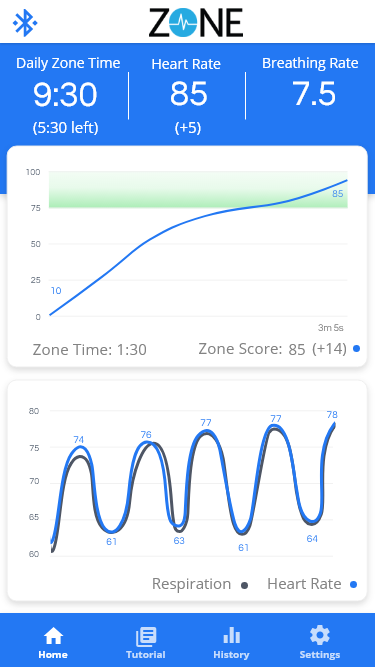
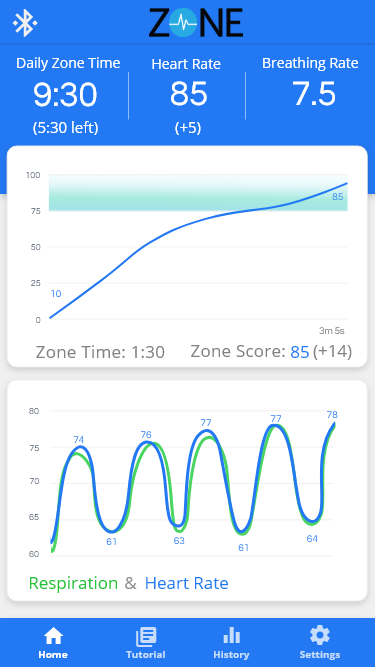
fixed grammar errors; new zome-screen screen

diff --git a/src/app/home/home.component.html b/src/app/home/home.component.html
@@ -39,9 +39,10 @@
   <main class='main-wrapper'>
     <div class='about' id='about-me'>
       <h1 class='main-font'>Hello World!</h1>
-      <p class='me'>I'm Alex Reyes, a software developer specializing in web and mobile applications with the best UX users can get. In addition, I have a business degree,
-          and I'm passionate about innovation and tech startups. I always try to keep my self busy by reading about tech and business or improving my code. Connect with me on LinkedIn or
-          send me a message and say hi!</p>
+      <p class='me'>I'm Alex Reyes, a software developer specializing in web and mobile applications with the best UX users can get.
+          In addition, I have a business degree, and I'm passionate about innovation and tech startups. I always try to keep my self 
+          busy by reading about tech and business or improving my code. Connect with me on LinkedIn or send me a message and say hi!
+      </p>
       <div class='contact-wrapper' id='contact'>
         <a class="resume btn btn-info"  [routerLink]="['/resume']" routerLinkActive="active"><i class="fas fa-file-pdf"></i> Resume</a>
         <!-- <object width="400" height="500" type="application/pdf" data="../assets/resume-site-sm.pdf">
@@ -84,14 +85,17 @@
           </div>
           <p class='footnote note'>App Mockups*</p>
           <h4 class='sub-header'>Description</h4>
-            <p>Vardas Solutions is biometrics startup located in San Diego's biotech hub with 4 patent-pending technologies. Their product, Zone,
-                is a wearable device that uses AI and 25 years on HRV biofeedback therapy to synchronize heart rate, respiration, and blood pressure through a guided breathing rate.
-                This suppresses the "stress responsive" making users more resilient to stress, anxiety, and depression.</p>
+            <p>Vardas Solutions is a biometrics startup located in San Diego with 5 patent-pending technologies. Their product, Zone,
+                is a wearable device that uses AI and 25 years on HRV biofeedback therapy to synchronize heart rate, respiration,
+                and blood pressure through a guided breathing rate. The device successfully suppresses the "stress responsive" making 
+                users more resilient to stress, anxiety, and depression.</p>
           <h4 class='sub-header'>Roles:</h4>
             <ul>
               <li>Design the application mockups and conduct user test interviews to get the best UX.</li>
-              <li>Support on software development planning, such as a timeline for the mobile app, web portal, admin site, database, and firmware and create the specifications document.</li>
-              <li>Support on building a team of engineers, such as interviewing engineers and meeting with engineering firms abroad to assess fitness and candidacy.</li>
+              <li>Support on software development planning, such as a timeline for the mobile app, web portal, admin site, database,
+                  and firmware and create the specifications document.</li>
+              <li>Support on building a team of engineers, such as interviewing engineers and meeting with engineering firms abroad to
+                  assess fitness and candidacy.</li>
             </ul>
             <div class="h5-section ">
                 <p class='sub-header-6'>Used:</p>
@@ -99,7 +103,7 @@
             </div>
             <div class="h5-section">
                 <p class='sub-header-6'>Source: </p>
-                <p class='content1'>Work in process. Will keep you update ;)</p>
+                <p class='content1'>Work in process. Will keep you updated ;)</p>
             </div>  
         </div>
         <div class='reboot sect' id='reboot'>
@@ -131,8 +135,9 @@
             </a>
           </div>
           <h4 class='sub-header'>Description</h4>
-          <p>Reboot is a non-profit organization that helps veterans transition into civilian life. Reboot is a tablet application created for veterans with the best user
-            experience that makes it effective for veterans to accomplish a set of the task before they leave the military. This includes:</p>
+          <p> Reboot is a non-profit organization that helps veterans transition into civilian life. Reboot is creating an application, 
+              designed for veterans, with the best user experience that makes it effective for veterans to accomplish a set of the tasks
+              before leaving the military. This includes:</p>
             <ul>
               <li>A wizard that guides veterans through the app.</li>
               <li>A timeline that details the task performed and notifications when users are being left behind.</li>
@@ -140,9 +145,10 @@
             </ul>
           <h4 class='sub-header'>Roles:</h4>
           <ul>
-            <li>Create personas and a storyboard on how veterans would interact with the app</li>
-            <li>Worked with 3 developers and 1 team lead following an agile methodology; used git for version control, created issues, pull-request, and performed code reviews.</li>
-            <li>Used JavaScript, Angular an Ionic to code a prototype application.</li> 
+            <li>Created personas and a storyboard on how veterans would interact with the app</li>
+            <li>Worked with 3 developers and 1 team lead following an agile methodology; used git for version control, created issues,
+                pull-request, and performed code reviews.</li>
+            <li>Used JavaScript, Angular and Ionic to code a prototype application.</li> 
             <li>Designed RESTful backend server allowing personal data to be stored persistently in an online database.</li>
           </ul>
           <div class="h5-section">
@@ -195,9 +201,10 @@
             </a>
           </div>
           <h4 class='sub-header'>Description</h4>
-          <p>Google provides awesome products and services that we all enjoy every day. One of them is Google Maps. This application was build using Google Map's API and given a twist.
-              The main purpose is to allow users to discover awesome places close by and look at the price range, open status, and ratings. Users can search using their geolocation or by using the search prediction,
-              and they can customize their search by the type of location. The best part is the ability to save the user's favorite places to a database.</p>
+          <p> Google provides awesome products and services that we all enjoy every day. One of them is Google Maps. This application was build 
+              using Google Map's API and given a twist. The main purpose is to allow users to discover awesome places close by and look at the
+              price range, open status, ratings, etc. Users can search using their geolocation or by using the search prediction, and they can
+              customize their search by the type of location. The best part is the ability to save the user's favorite places to a database.</p>
           <div class="h5-section">
               <p class='sub-header-6'>Used:</p>
               <p class=' content1'>JavaScript, HTML, CSS, Ionic, Geolocation, MongoDB, Express, Cordova, Google Map’s API </p>
@@ -236,8 +243,9 @@
             </a>
           </div>
           <h4 class='sub-header'>Description</h4>
-          <p>This web app allows users to search for the hottest stocks in the market. Enter a ticker symbol and let the magic begin. You can search by the hour, day, week, or month.
-              In addition, you can read the most relevant news in the left column. Finally, this app lets you save your favorite stocks in a database.</p>
+          <p> This web app allows users to search for the hottest stocks in the market. Enter a ticker symbol and let the magic begin. 
+              You can search by the hour, day, week, or month. In addition, you can read the most relevant news in the left column. 
+              Finally, this app lets you save your favorite stocks in a database.</p>
           <div class="h5-section">
               <p class='sub-header-6'>Used:</p>
               <p class=' content1'>JavaScript, CSS, Clarity-Seed, HTML, Angular, MongoDB, Express, ng2-chart, Stock Market API</p>
